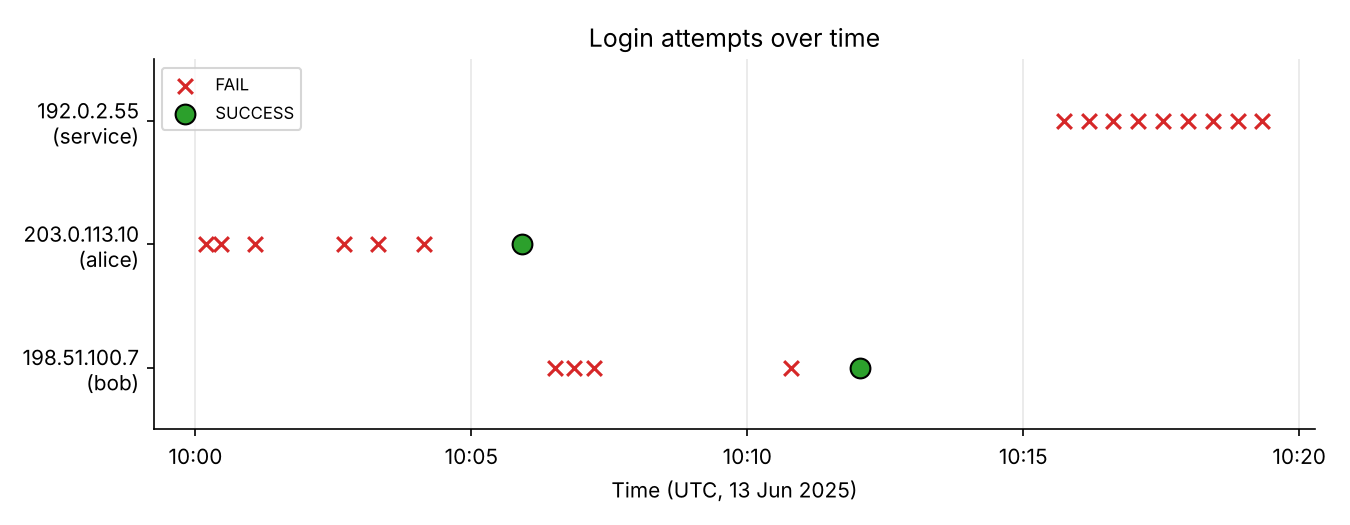
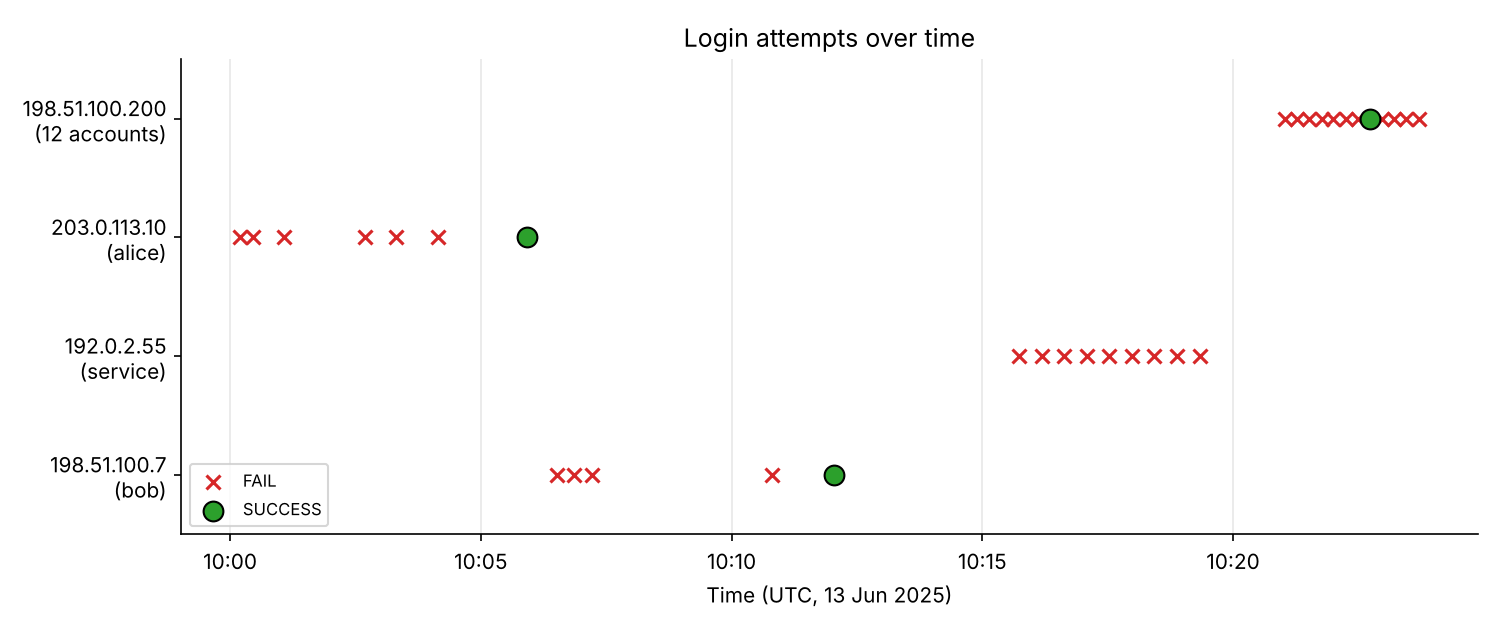
Add credential-stuffing detection and Malaysia context
- Add synthetic credential-stuffing events (one IP, 12 accounts)
- analyze.py: add distinct-accounts check, attack type and bot/human labels
- New chart: brute-force vs credential-stuffing fingerprints
- README: 'Why this matters' section with sourced Malaysian stats,
  4-check method, updated findings and Splunk queries

diff --git a/log-analysis/brute-force/analyze.py b/log-analysis/brute-force/analyze.py
@@ -1,111 +1,173 @@
 """
-Brute-force detection on authentication logs (SIEM simulation).
+Brute-force & credential-stuffing detection on authentication logs (SIEM simulation).
 
 Usage:  python analyze.py
 Input:  data/logs.csv  (timestamp, user, src_ip, action, protocol)
 Output: printed summary + charts in img/
+
+Two attack patterns:
+  - Brute-force:        ONE account, MANY password guesses
+  - Credential stuffing: MANY accounts, 1-2 tries each (using leaked passwords)
 """
 from pathlib import Path
 
-import matplotlib.pyplot as plt
 import matplotlib.dates as mdates
+import matplotlib.pyplot as plt
 import pandas as pd
 
 HERE = Path(__file__).parent
-FAIL_THRESHOLD = 5          # failed attempts that count as brute-force
-WINDOW = pd.Timedelta("10min")  # time window for the threshold
+WINDOW = pd.Timedelta("10min")   # time window for all rules
+FAIL_THRESHOLD = 5               # brute-force: fails on ONE account in the window
+USER_THRESHOLD = 5               # stuffing: DIFFERENT accounts tried in the window
+BOT_STD_SEC = 5                  # timing this regular (std dev of gaps) = scripted
 
 # ---------- 1. Load ----------
 df = pd.read_csv(HERE / "data" / "logs.csv", parse_dates=["timestamp"])
-df = df.sort_values("timestamp")
+df = df.sort_values("timestamp").reset_index(drop=True)
+
+
+def max_in_window(times, values=None):
+    """Max count (or max distinct values) seen inside any WINDOW-long period."""
+    best = 0
+    for t in times:
+        mask = (times >= t) & (times < t + WINDOW)
+        best = max(best, values[mask].nunique() if values is not None else mask.sum())
+    return best
+
 
 # ---------- 2. Summarise per source IP ----------
 rows = []
 for ip, g in df.groupby("src_ip"):
     fails = g[g.action == "FAIL"]
-    success = g[g.action == "SUCCESS"]
-    first_fail, last_fail = fails.timestamp.min(), fails.timestamp.max()
+    first_fail = fails.timestamp.min()
+    success_after = g[(g.action == "SUCCESS") & (g.timestamp > first_fail)]
 
-    # Max fails seen inside any 10-minute window
-    max_in_window = max(
-        ((fails.timestamp >= t) & (fails.timestamp < t + WINDOW)).sum()
-        for t in fails.timestamp
-    )
-    # Did a SUCCESS come after the failures?
-    success_after = success[success.timestamp > first_fail]
-
-    gaps = fails.timestamp.diff().dt.total_seconds().dropna()
+    # Check 1: brute-force -> most fails on a single account in 10 min
+    max_fails_one_user = max(max_in_window(f.timestamp) for _, f in fails.groupby("user"))
+    # Check 2: credential stuffing -> how many different accounts in 10 min
+    max_users = max_in_window(g.timestamp, g.user)
+    # Check 3: did a login succeed after the failures?
+    compromised = ", ".join(success_after.user.unique())
+    # Check 4: timing -> perfectly even gaps = a script
+    gaps = g.timestamp.diff().dt.total_seconds().dropna()
 
     rows.append({
         "src_ip": ip,
-        "user": ", ".join(g.user.unique()),
+        "accounts": g.user.nunique(),
         "fails": len(fails),
-        "max_fails_10min": max_in_window,
+        "max_fails_1_acct_10min": max_fails_one_user,
+        "max_accounts_10min": max_users,
         "avg_gap_sec": round(gaps.mean(), 1),
         "gap_std_sec": round(gaps.std(), 1),
-        "success_after_fails": not success_after.empty,
-        "duration": last_fail - first_fail,
+        "success_after_fails": compromised or "-",
     })
 
-summary = pd.DataFrame(rows).sort_values("fails", ascending=False)
+summary = pd.DataFrame(rows)
 
 
-def verdict(r):
-    brute = r.max_fails_10min >= FAIL_THRESHOLD
-    if brute and r.success_after_fails:
-        return "HIGH - brute-force then SUCCESS (possible compromise)"
-    if brute:
-        return "MEDIUM - brute-force, no success (block / monitor)"
-    if r.success_after_fails:
-        return "LOW - few fails then success (likely forgotten password)"
+def attack_type(r):
+    if r.max_accounts_10min >= USER_THRESHOLD:
+        return "Credential stuffing"
+    if r.max_fails_1_acct_10min >= FAIL_THRESHOLD:
+        return "Brute-force"
+    return "Normal"
+
+
+def behaviour(r):
+    return "Bot" if r.gap_std_sec <= BOT_STD_SEC else "Human"
+
+
+def risk(r):
+    attack = r.attack_type != "Normal"
+    got_in = r.success_after_fails != "-"
+    if attack and got_in:
+        return "HIGH"
+    if attack:
+        return "MEDIUM"
+    if got_in:
+        return "LOW"
     return "INFO"
 
 
-summary["risk"] = summary.apply(verdict, axis=1)
+summary["attack_type"] = summary.apply(attack_type, axis=1)
+summary["behaviour"] = summary.apply(behaviour, axis=1)
+summary["risk"] = summary.apply(risk, axis=1)
+rank = {"HIGH": 0, "MEDIUM": 1, "LOW": 2, "INFO": 3}
+summary = summary.sort_values(["risk", "fails"], key=lambda s: s.map(rank) if s.name == "risk" else -s)
 
-pd.set_option("display.width", 200)
+pd.set_option("display.width", 250)
 print(summary.to_string(index=False))
 
 # ---------- 3. Charts ----------
 img = HERE / "img"
 img.mkdir(exist_ok=True)
-colors = {"HIGH": "#d62728", "MEDIUM": "#ff7f0e", "LOW": "#7f7f7f", "INFO": "#7f7f7f"}
+COLORS = {"HIGH": "#d62728", "MEDIUM": "#ff7f0e", "LOW": "#7f7f7f", "INFO": "#7f7f7f"}
+
+
+def label(r):
+    who = df[df.src_ip == r.src_ip].user.iloc[0] if r.accounts == 1 else f"{r.accounts} accounts"
+    return f"{r.src_ip}\n({who})"
+
+
+def style(ax):
+    ax.spines[["top", "right"]].set_visible(False)
+
 
 # Chart 1: failed logins by source IP
-fig, ax = plt.subplots(figsize=(8, 4))
-bar_colors = [colors[r.split(" ")[0]] for r in summary.risk]
-bars = ax.barh(summary.src_ip, summary.fails, color=bar_colors)
-ax.axvline(FAIL_THRESHOLD, ls="--", color="black", lw=1)
-ax.text(FAIL_THRESHOLD + 0.1, -0.45, f"threshold = {FAIL_THRESHOLD}", fontsize=8)
+fig, ax = plt.subplots(figsize=(9, 4.2))
+bars = ax.barh([label(r) for r in summary.itertuples()], summary.fails,
+               color=[COLORS[r] for r in summary.risk])
 for b, r in zip(bars, summary.itertuples()):
-    label = f"{r.fails} fails ({r.user})" + ("  → SUCCESS" if r.success_after_fails else "")
-    ax.text(max(b.get_width(), FAIL_THRESHOLD) + 0.15, b.get_y() + b.get_height() / 2, label, va="center", fontsize=9)
+    text = f"{r.fails} fails · {r.attack_type} · {r.behaviour}"
+    if r.success_after_fails != "-":
+        text += f"  → {r.success_after_fails} SUCCESS"
+    ax.text(b.get_width() + 0.2, b.get_y() + b.get_height() / 2, text, va="center", fontsize=9)
 ax.invert_yaxis()
-ax.set_xlim(0, summary.fails.max() + 4)
+ax.set_xlim(0, summary.fails.max() * 2.1)
 ax.set_xlabel("Failed login attempts")
-ax.set_title("Failed SSH logins by source IP")
-ax.spines[["top", "right"]].set_visible(False)
+ax.set_title("Failed SSH logins by source IP  (red = attacker got in)")
+style(ax)
 fig.tight_layout()
 fig.savefig(img / "top_ips.png", dpi=150)
 
-# Chart 2: timeline of every login attempt, one row per IP
-fig, ax = plt.subplots(figsize=(9, 3.5))
+# Chart 2: attack-type map -> brute-force vs credential stuffing
+fig, ax = plt.subplots(figsize=(7.5, 5))
+ax.axhspan(FAIL_THRESHOLD, 12, xmax=0.35, color="#d62728", alpha=0.06)
+ax.axvspan(USER_THRESHOLD, 15, ymax=0.35, color="#1f77b4", alpha=0.06)
+ax.text(1.2, 10.8, "BRUTE-FORCE ZONE\none account, many guesses", fontsize=9, color="#d62728")
+ax.text(8.2, 3.2, "CREDENTIAL-STUFFING ZONE\nmany accounts, few tries each", fontsize=9, color="#1f77b4")
+for r in summary.itertuples():
+    ax.scatter(r.max_accounts_10min, r.max_fails_1_acct_10min, s=220,
+               color=COLORS[r.risk], edgecolor="black", zorder=3)
+    ax.annotate(f"{r.src_ip}\n{r.attack_type}", (r.max_accounts_10min, r.max_fails_1_acct_10min),
+                xytext=(10, -4), textcoords="offset points", fontsize=8.5, va="top")
+ax.set_xlim(0, 15)
+ax.set_ylim(0, 12)
+ax.set_xlabel("Different accounts tried (in 10 min)")
+ax.set_ylabel("Most fails on one account (in 10 min)")
+ax.set_title("Two attacks, two fingerprints")
+style(ax)
+fig.tight_layout()
+fig.savefig(img / "attack_types.png", dpi=150)
+
+# Chart 3: timeline of every login attempt, one row per IP
+fig, ax = plt.subplots(figsize=(10, 4.2))
 order = list(summary.src_ip)
 for i, ip in enumerate(order):
     g = df[df.src_ip == ip]
     f, s = g[g.action == "FAIL"], g[g.action == "SUCCESS"]
-    ax.scatter(f.timestamp, [i] * len(f), marker="x", color="#d62728", s=50,
+    ax.scatter(f.timestamp, [i] * len(f), marker="x", color="#d62728", s=45,
                label="FAIL" if i == 0 else None)
     ax.scatter(s.timestamp, [i] * len(s), marker="o", color="#2ca02c", s=90,
                edgecolor="black", zorder=3, label="SUCCESS" if i == 0 else None)
-ax.set_yticks(range(len(order)), [f"{ip}\n({df[df.src_ip == ip].user.iloc[0]})" for ip in order])
+ax.set_yticks(range(len(order)), [label(r) for r in summary.itertuples()])
 ax.set_ylim(len(order) - 0.5, -0.5)
 ax.xaxis.set_major_formatter(mdates.DateFormatter("%H:%M"))
 ax.set_xlabel("Time (UTC, 13 Jun 2025)")
 ax.set_title("Login attempts over time")
-ax.legend(loc="upper left", fontsize=8)
+ax.legend(loc="lower left", fontsize=8)
 ax.grid(axis="x", alpha=0.3)
-ax.spines[["top", "right"]].set_visible(False)
+style(ax)
 fig.tight_layout()
 fig.savefig(img / "fails_over_time.png", dpi=150)
 

diff --git a/log-analysis/brute-force/README.md b/log-analysis/brute-force/README.md
@@ -1,24 +1,43 @@
-# Log Analysis – Brute-Force Detection (SIEM Simulation)
+# Log Analysis – Brute-Force & Credential-Stuffing Detection (SIEM Simulation)
 
-**Objective.** Detect brute-force login behavior and potential compromise using simple log analysis (Python/pandas).
+**Objective.** Show how stolen or guessed passwords turn into account break-ins — and how to spot it in login logs using Python.
+
+## 🇲🇾 Why this matters
+- In Nov 2026, the Prime Minister told Parliament that Malaysia could be a target of sophisticated cyberattacks, and Bank Negara arranged a special session with financial institutions. ([Malay Mail](https://www.malaymail.com/amp/news/malaysia/2026/11/03/pm-anwar-malaysia-vulnerable-to-sophisticated-cyber-attacks-home-ministry-to-hold-special-meeting-today/241783))
+- **Nacsa** has reported more incidents using **stolen usernames and passwords**, noting the technique needs little skill, and expects **credential theft to rise in 2026**. ([FMT](https://www.freemalaysiatoday.com/category/nation/2024/03/22/more-cyber-attacks-through-stolen-logins-taking-place-says-agency), [The Star](https://www.thestar.com.my/tech/tech-news/2026/03/23/cyber-incidents-rise-as-malaysians-lag-on-online-safety))
+- **553,722 Malaysian accounts** were exposed in public data leaks in 2025, and Cyber999 logged **5,735 incident reports** in the first nine months of 2025. ([The Star](https://www.thestar.com.my/tech/tech-news/2026/03/23/cyber-incidents-rise-as-malaysians-lag-on-online-safety))
+
+Leaked or weak passwords don't hurt anyone until someone **uses them at a login page**. That moment leaves traces in the logs. This project finds them.
+
+## Two attacks, two fingerprints
+| | 🔨 Brute-force | 🔑 Credential stuffing |
+| --- | --- | --- |
+| **Idea** | Guess the password for **one** account | Try **leaked** username/password pairs on **many** accounts |
+| **In the logs** | Many fails on the **same user** | **Many different users**, 1 try each |
+| **Easy to miss because…** | — | Each account only fails once, so per-account alerts never fire |
 
 ## TL;DR
-| Risk | Source IP | Account | What happened | Action |
-| --- | --- | --- | --- | --- |
-| 🔴 **HIGH** | `203.0.113.10` | alice | 6 fails in ~4 min → **SUCCESS** | Treat as compromised: reset password, kill sessions, review activity |
-| 🟠 **MEDIUM** | `192.0.2.55` | service | 9 fails, **exactly 27 sec apart** → no success | Automated attack: block IP, harden service account |
-| ⚪ **LOW** | `198.51.100.7` | bob | 4 fails, irregular timing → success | Likely a forgotten password: confirm with user |
+| Risk | Source IP | Attack | Accounts | What happened | Action |
+| --- | --- | --- | --- | --- | --- |
+| 🔴 **HIGH** | `198.51.100.200` | Credential stuffing (bot) | 12 | Tried 12 accounts in under 3 min → **heidi logged in on the first try** | Reset heidi, block IP, check other accounts for reused passwords |
+| 🔴 **HIGH** | `203.0.113.10` | Brute-force | alice | 6 fails in ~4 min → **SUCCESS** | Reset alice, end sessions, review activity |
+| 🟠 **MEDIUM** | `192.0.2.55` | Brute-force (bot) | service | 9 fails, **exactly 27 sec apart** → no success | Block IP, harden service account |
+| ⚪ **LOW** | `198.51.100.7` | Normal | bob | 4 fails, irregular timing → success | Likely forgotten password; confirm with user |
 
 ## Dataset
-Synthetic SSH auth logs: [`data/logs.csv`](./data/logs.csv) — 21 events, 3 source IPs, 13 Jun 2025 10:00–10:20 UTC  
-Fields: `timestamp, user, src_ip, action, protocol`
+Synthetic SSH auth logs: [`data/logs.csv`](./data/logs.csv) — 33 events, 4 source IPs, 13 Jun 2025 10:00–10:24 UTC  
+Fields: `timestamp, user, src_ip, action, protocol`  
+IPs are from reserved documentation ranges (RFC 5737), not real addresses.
 
-## Method
-1. Loaded the CSV into Python (pandas) and sorted events by time.
-2. Counted failed logins per `src_ip`.
-3. Checked the **max fails inside any 10-minute window** against a threshold of **5**.
-4. Flagged IPs where **failures are followed by a SUCCESS** (potential account takeover).
-5. Measured the **time gap between attempts** — perfectly even gaps point to a script, uneven gaps to a human.
+## Method — 4 checks per source IP (10-minute window)
+| # | Check | Catches | Rule |
+| --- | --- | --- | --- |
+| 1 | Most fails on **one** account | Brute-force | ≥ 5 |
+| 2 | Number of **different** accounts tried | Credential stuffing | ≥ 5 |
+| 3 | A **SUCCESS** after the failures? | Compromise | yes / no |
+| 4 | How **regular** is the timing? (std dev of gaps) | Bot vs human | ≤ 5 sec = bot |
+
+**Risk:** attack + success = 🔴 HIGH · attack, no success = 🟠 MEDIUM · no attack but success = ⚪ LOW
 
 Run it yourself:
 ```bash
@@ -28,37 +47,43 @@ python analyze.py
 
 ## Findings
 
-### 1. 🔴 203.0.113.10 → alice — possible compromise
-- 6 failed SSH logins between 10:00:12 and 10:04:09, then a **successful login at 10:05:55**.
-- Crosses the 5-fails threshold **and** ends in success — the classic brute-force / credential-stuffing pattern.
-- **Risk:** the attacker likely now has access to alice's account.
+### 1. 🔴 198.51.100.200 → 12 accounts — credential stuffing, heidi compromised
+- One IP tried **12 different accounts in 2 min 40 s**, one attempt each, about **every 15 seconds** (gap std dev 0.5 s → a script).
+- **heidi's login succeeded on the first try.** The attacker already had her password — most likely from a leak or reuse on another site.
+- ⚠ **A "5 fails per account" rule would never catch this.** heidi had zero failed logins. Only checking *how many accounts one IP touches* reveals it.
 
-### 2. 🟠 192.0.2.55 → service — automated brute-force, not (yet) successful
-- 9 failed logins in 3.5 minutes, the highest count of any IP.
-- Attempts are **exactly 27 seconds apart** (std dev = 0 sec) → this is a bot, not a person.
+### 2. 🔴 203.0.113.10 → alice — brute-force, alice compromised
+- 6 failed logins between 10:00:12 and 10:04:09, then **SUCCESS at 10:05:55**.
+- Crosses the threshold **and** ends in success — the classic guess-until-it-works pattern.
+
+### 3. 🟠 192.0.2.55 → service — automated brute-force, not (yet) successful
+- 9 fails in 3.5 minutes, **exactly 27 seconds apart** (std dev = 0) → a bot.
 - Targets a **service account**, which often has weak or shared passwords and no MFA.
-- No success seen, but the attack was still running when the log ended.
 
-### 3. ⚪ 198.51.100.7 → bob — likely benign
-- 4 fails then success, **below the threshold**.
-- Timing is irregular (3 quick tries, a 3.5-minute pause, then 2 more) — looks like a human remembering their password.
-- Worth a quick check with the user, but low priority.
+### 4. ⚪ 198.51.100.7 → bob — likely benign
+- 3 quick fails, a 3.5-minute pause, 1 more fail, then success. **Below the threshold** and irregular — looks like a person remembering their password.
 
-> 💡 **Why the top offender isn't the top risk:** `192.0.2.55` has the most failures, but `203.0.113.10` is more urgent because it actually got in. Ranking alerts only by volume would miss this — the same lesson as in fraud detection, where a successful fraudulent transaction matters more than many declined ones.
+> 💡 **Lesson: volume isn't risk.** The noisiest single-account attacker (`192.0.2.55`, 9 fails) never got in. The two that did got in quietly — one with only 6 tries, the other with **zero** failures on the stolen account. It's the same lesson from fraud detection: one *successful* fraudulent transaction matters more than ten declined ones.
 
 ## Charts
+**Two attack types sit in two different corners:**
+![Attack types](./img/attack_types.png)
+
+**Failed logins by source IP (red = attacker got in):**
 ![Failed logins by source IP](./img/top_ips.png)
 
+**Every login attempt over time — note the evenly spaced bot patterns:**
 ![Login attempts over time](./img/fails_over_time.png)
 
 ## Recommended Response
-1. **alice:** force a password reset, end active sessions, review what was accessed after 10:05:55, enable MFA.
-2. **192.0.2.55:** block at the firewall; add fail2ban (or similar) rate-limiting on SSH.
-3. **service account:** switch to key-based SSH auth and disable password login.
-4. **bob:** confirm with the user that the login was theirs.
+1. **heidi & alice:** force password resets, end active sessions, review activity after the successful login.
+2. **Credential stuffing:** check whether other users share leaked or reused passwords; turn on **MFA** — a leaked password alone is then not enough.
+3. **Block** `198.51.100.200` and `192.0.2.55`; add rate-limiting (e.g. fail2ban) on SSH.
+4. **Service account:** switch to key-based SSH auth and disable password login.
+5. **bob:** confirm the login was his.
 
 ## Detection Ideas (SOC-style)
-**Splunk (conceptual):**
+**Brute-force — many fails on one account (Splunk, conceptual):**
 ```splunk
 index=auth action=FAIL
 | bin _time span=10m
@@ -66,17 +91,26 @@ index=auth action=FAIL
 | where count>=5
 ```
 
-**Brute-force followed by success:**
+**Credential stuffing — one IP, many accounts:**
+```splunk
+index=auth
+| bin _time span=10m
+| stats dc(user) as accounts, count(eval(action="SUCCESS")) as successes by src_ip, _time
+| where accounts>=5
+```
+
+**Attack followed by success:**
 ```splunk
 index=auth
 | stats count(eval(action="FAIL")) as fails,
-        count(eval(action="SUCCESS")) as successes by src_ip, user
-| where fails>=5 AND successes>0
+        count(eval(action="SUCCESS")) as successes,
+        dc(user) as accounts by src_ip
+| where (fails>=5 OR accounts>=5) AND successes>0
 ```
 
 ## Files
 | File | What it is |
 | --- | --- |
-| [`analyze.py`](./analyze.py) | Detection logic + chart generation |
-| [`data/logs.csv`](./data/logs.csv) | Sample auth logs |
+| [`analyze.py`](./analyze.py) | Detection logic (4 checks) + chart generation |
+| [`data/logs.csv`](./data/logs.csv) | Synthetic auth logs |
 | [`img/`](./img) | Output charts |

diff --git a/README.md b/README.md
@@ -29,15 +29,15 @@ To apply the skills I've learned to close the gap into cybersecurity.
 | # | Project | What I did | Tools | Status |
 | --- | --- | --- | --- | --- |
 | 1 | [PCAP Traffic Analysis – "It's a Trap!"](./pcap-analysis/its-a-trap-2018-07-20) | Found abnormal DNS queries and an HTTP download of `setup.exe` — a likely malware delivery attempt | Wireshark | ✅ Done |
-| 2 | [Log Analysis – Brute-Force Detection](./log-analysis/brute-force) | Analysed SSH auth logs; found one likely account compromise and one automated bot attack, with risk-ranked response steps | Python (pandas, matplotlib) | ✅ Done |
+| 2 | [Log Analysis – Brute-Force & Credential Stuffing](./log-analysis/brute-force) | Detected two password-based attacks in SSH logs, including a credential-stuffing break-in that per-account alerts would miss; linked to Malaysia's rising credential-theft trend | Python (pandas, matplotlib) | ✅ Done |
 | 3 | Fraud → Cybersecurity Case Study | How fraud detection workflows (anomaly detection, escalation, risk analysis) map to threat detection | — | 🔜 Coming soon |
 
 ## Projects by Skill Areas and Certifications
 | Certificates | Skills | Associated Projects | 
 | --- | --- | --- | 
-| CCNA |Access Connectivity <br> Architectures and Services <br> Assurance and Automation <br> Automation <br> Connectivity <br> Core Routing <br> High Availability and Fast Convergence <br> IP <br> IP services <br> Network Access <br> Network Fundamentals <br> Programability <br> Security <br> Security Fundamentals| [PCAP Traffic Analysis](./pcap-analysis/its-a-trap-2018-07-20) <br> [Brute-Force Detection](./log-analysis/brute-force) |
+| CCNA |Access Connectivity <br> Architectures and Services <br> Assurance and Automation <br> Automation <br> Connectivity <br> Core Routing <br> High Availability and Fast Convergence <br> IP <br> IP services <br> Network Access <br> Network Fundamentals <br> Programability <br> Security <br> Security Fundamentals| [PCAP Traffic Analysis](./pcap-analysis/its-a-trap-2018-07-20) <br> [Brute-Force & Credential Stuffing](./log-analysis/brute-force) |
 | Cisco Certified Network Professional Security (CCNP Security) |802.1x <br> Access Solutions <br> Advanced Malware Protection <br> AMP <br> CCNP <br> Cloud Web Security <br> Email Security <br> FirePOWER <br> Firewalls <br> IPS <br> ISE <br> Mobility Solutions <br> NCIPS <br> Security <br> Threat Control Solutions <br> TrustSec. <br> VPNs <br> Web Security| 🔜 Coming soon |
-| Cisco Certified Specialist - Security Core |Cross-Site Scripting <br> DoS/DDoS Attacks <br> Endpoint Protection and Detection <br> Enforcement <br> Malware <br> man-in-the-middle attacks <br> Network Security <br> Phishing <br> Rootkits <br> Secure Network Access <br> Securing the Cloud <br> Security Concepts <br> SQL Injection <br> trojans <br> Viruses <br> Visibility| [PCAP Traffic Analysis](./pcap-analysis/its-a-trap-2018-07-20) <br> [Brute-Force Detection](./log-analysis/brute-force) |
+| Cisco Certified Specialist - Security Core |Cross-Site Scripting <br> DoS/DDoS Attacks <br> Endpoint Protection and Detection <br> Enforcement <br> Malware <br> man-in-the-middle attacks <br> Network Security <br> Phishing <br> Rootkits <br> Secure Network Access <br> Securing the Cloud <br> Security Concepts <br> SQL Injection <br> trojans <br> Viruses <br> Visibility| [PCAP Traffic Analysis](./pcap-analysis/its-a-trap-2018-07-20) <br> [Brute-Force & Credential Stuffing](./log-analysis/brute-force) |
 | Cisco Certified Specialist - Web Content Security |Acceptable Use Control <br> Authentication <br> Cisco WSA Features <br> Configuration <br> Decryption Policies To Control HTTPS Traffic <br> Differentiated <br> Traffic Access Policies <br> Malware Defense <br> Proxy Services <br> Reporting And Tracking Web Transactions| 🔜 Coming soon |
 
 ---
